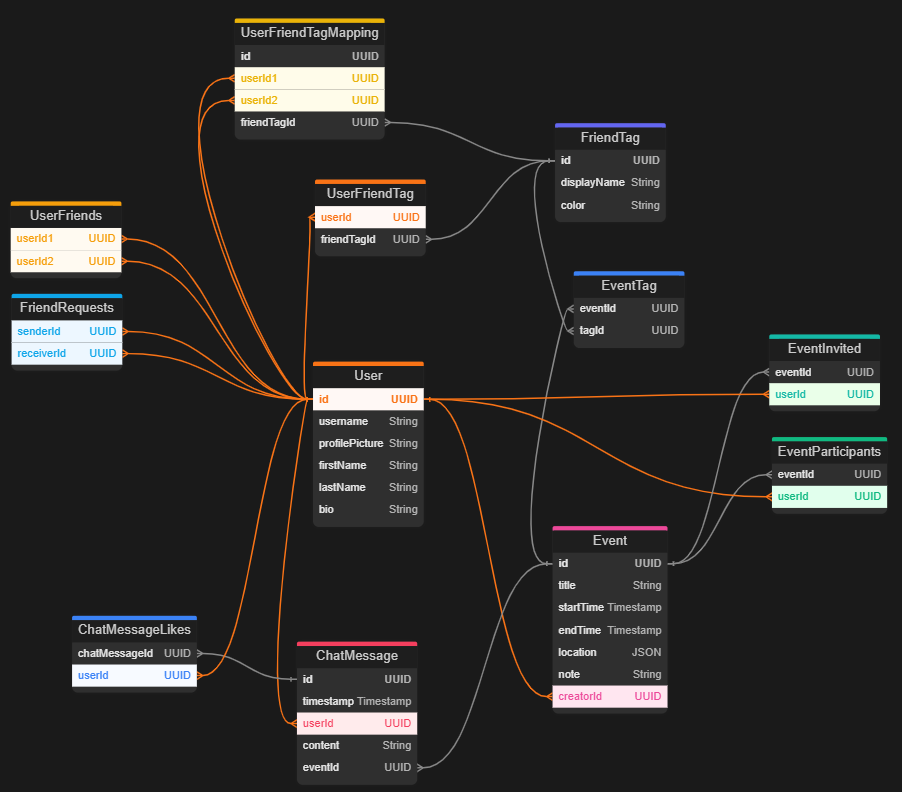
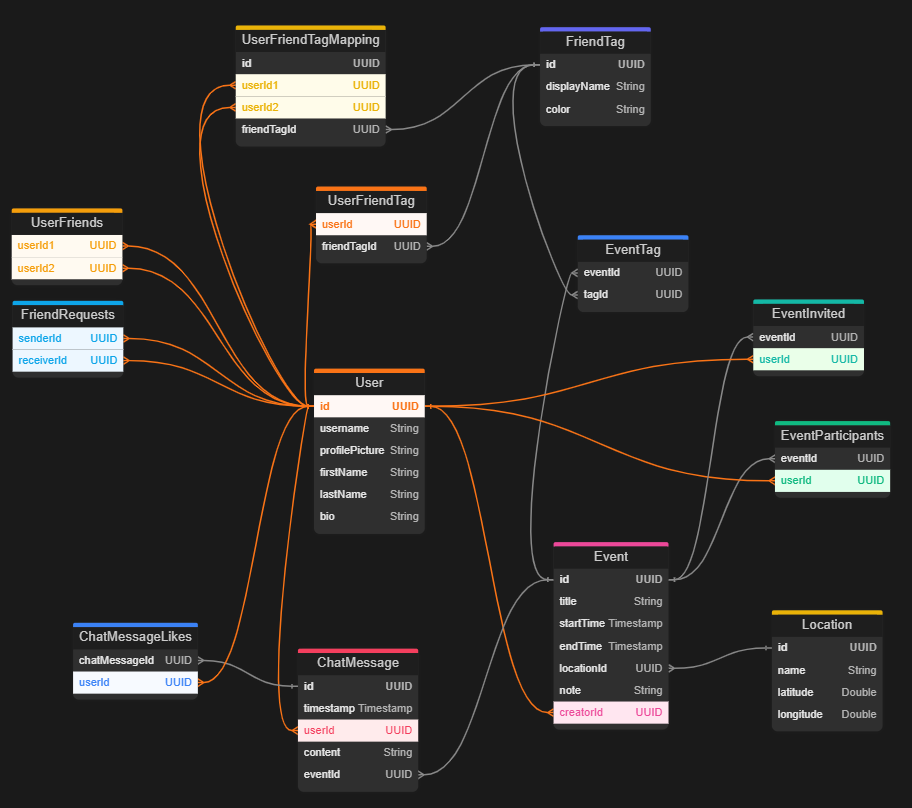
Turned back to table, but with proper properties for mobile app: name, lat, and long

diff --git a/README.md b/README.md
@@ -18,7 +18,7 @@ Back-End for the [Spawn Mobile App](https://github.com/Daggerpov/Spawn-App-iOS-S
 
 # Entity Relationship Diagram
 
-![entity-relationship-diagram-Nov-20-v3-location-JSON-type](entity-relationship-diagram.png)
+![entity-relationship-diagram-Nov-20-v4-location-db-table](entity-relationship-diagram.png)
 
 # Folder Structure Explanation
 
